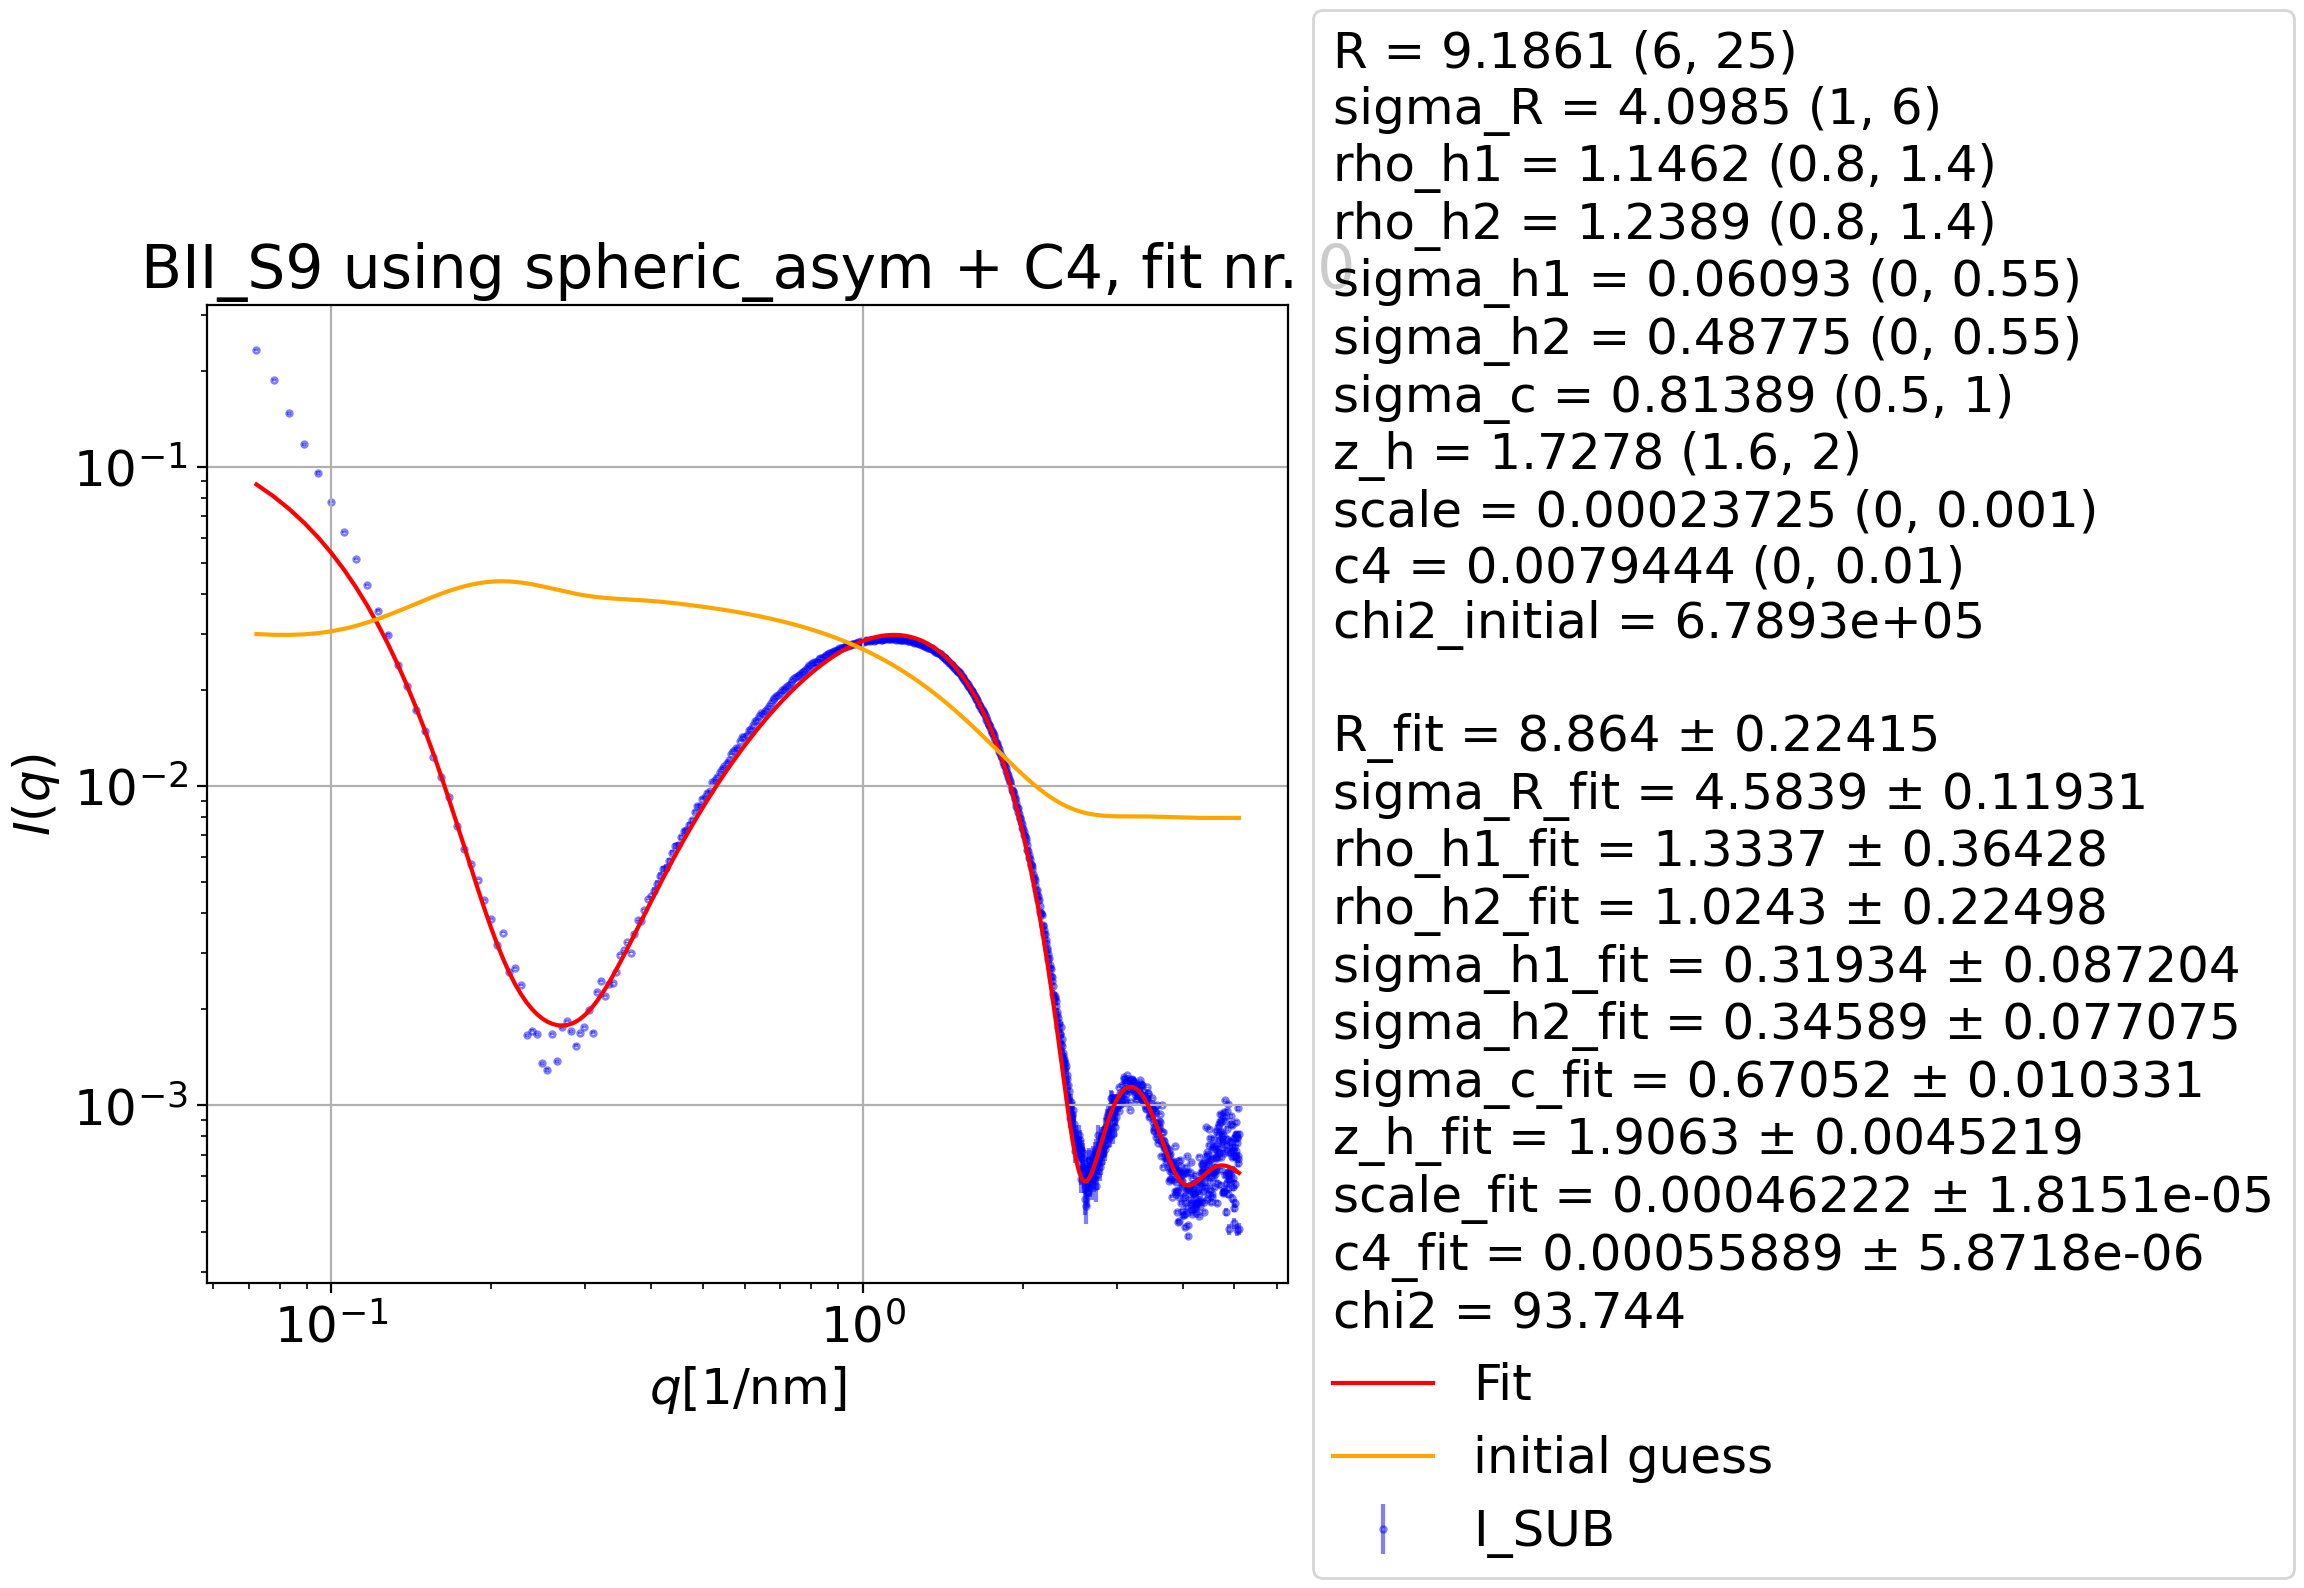
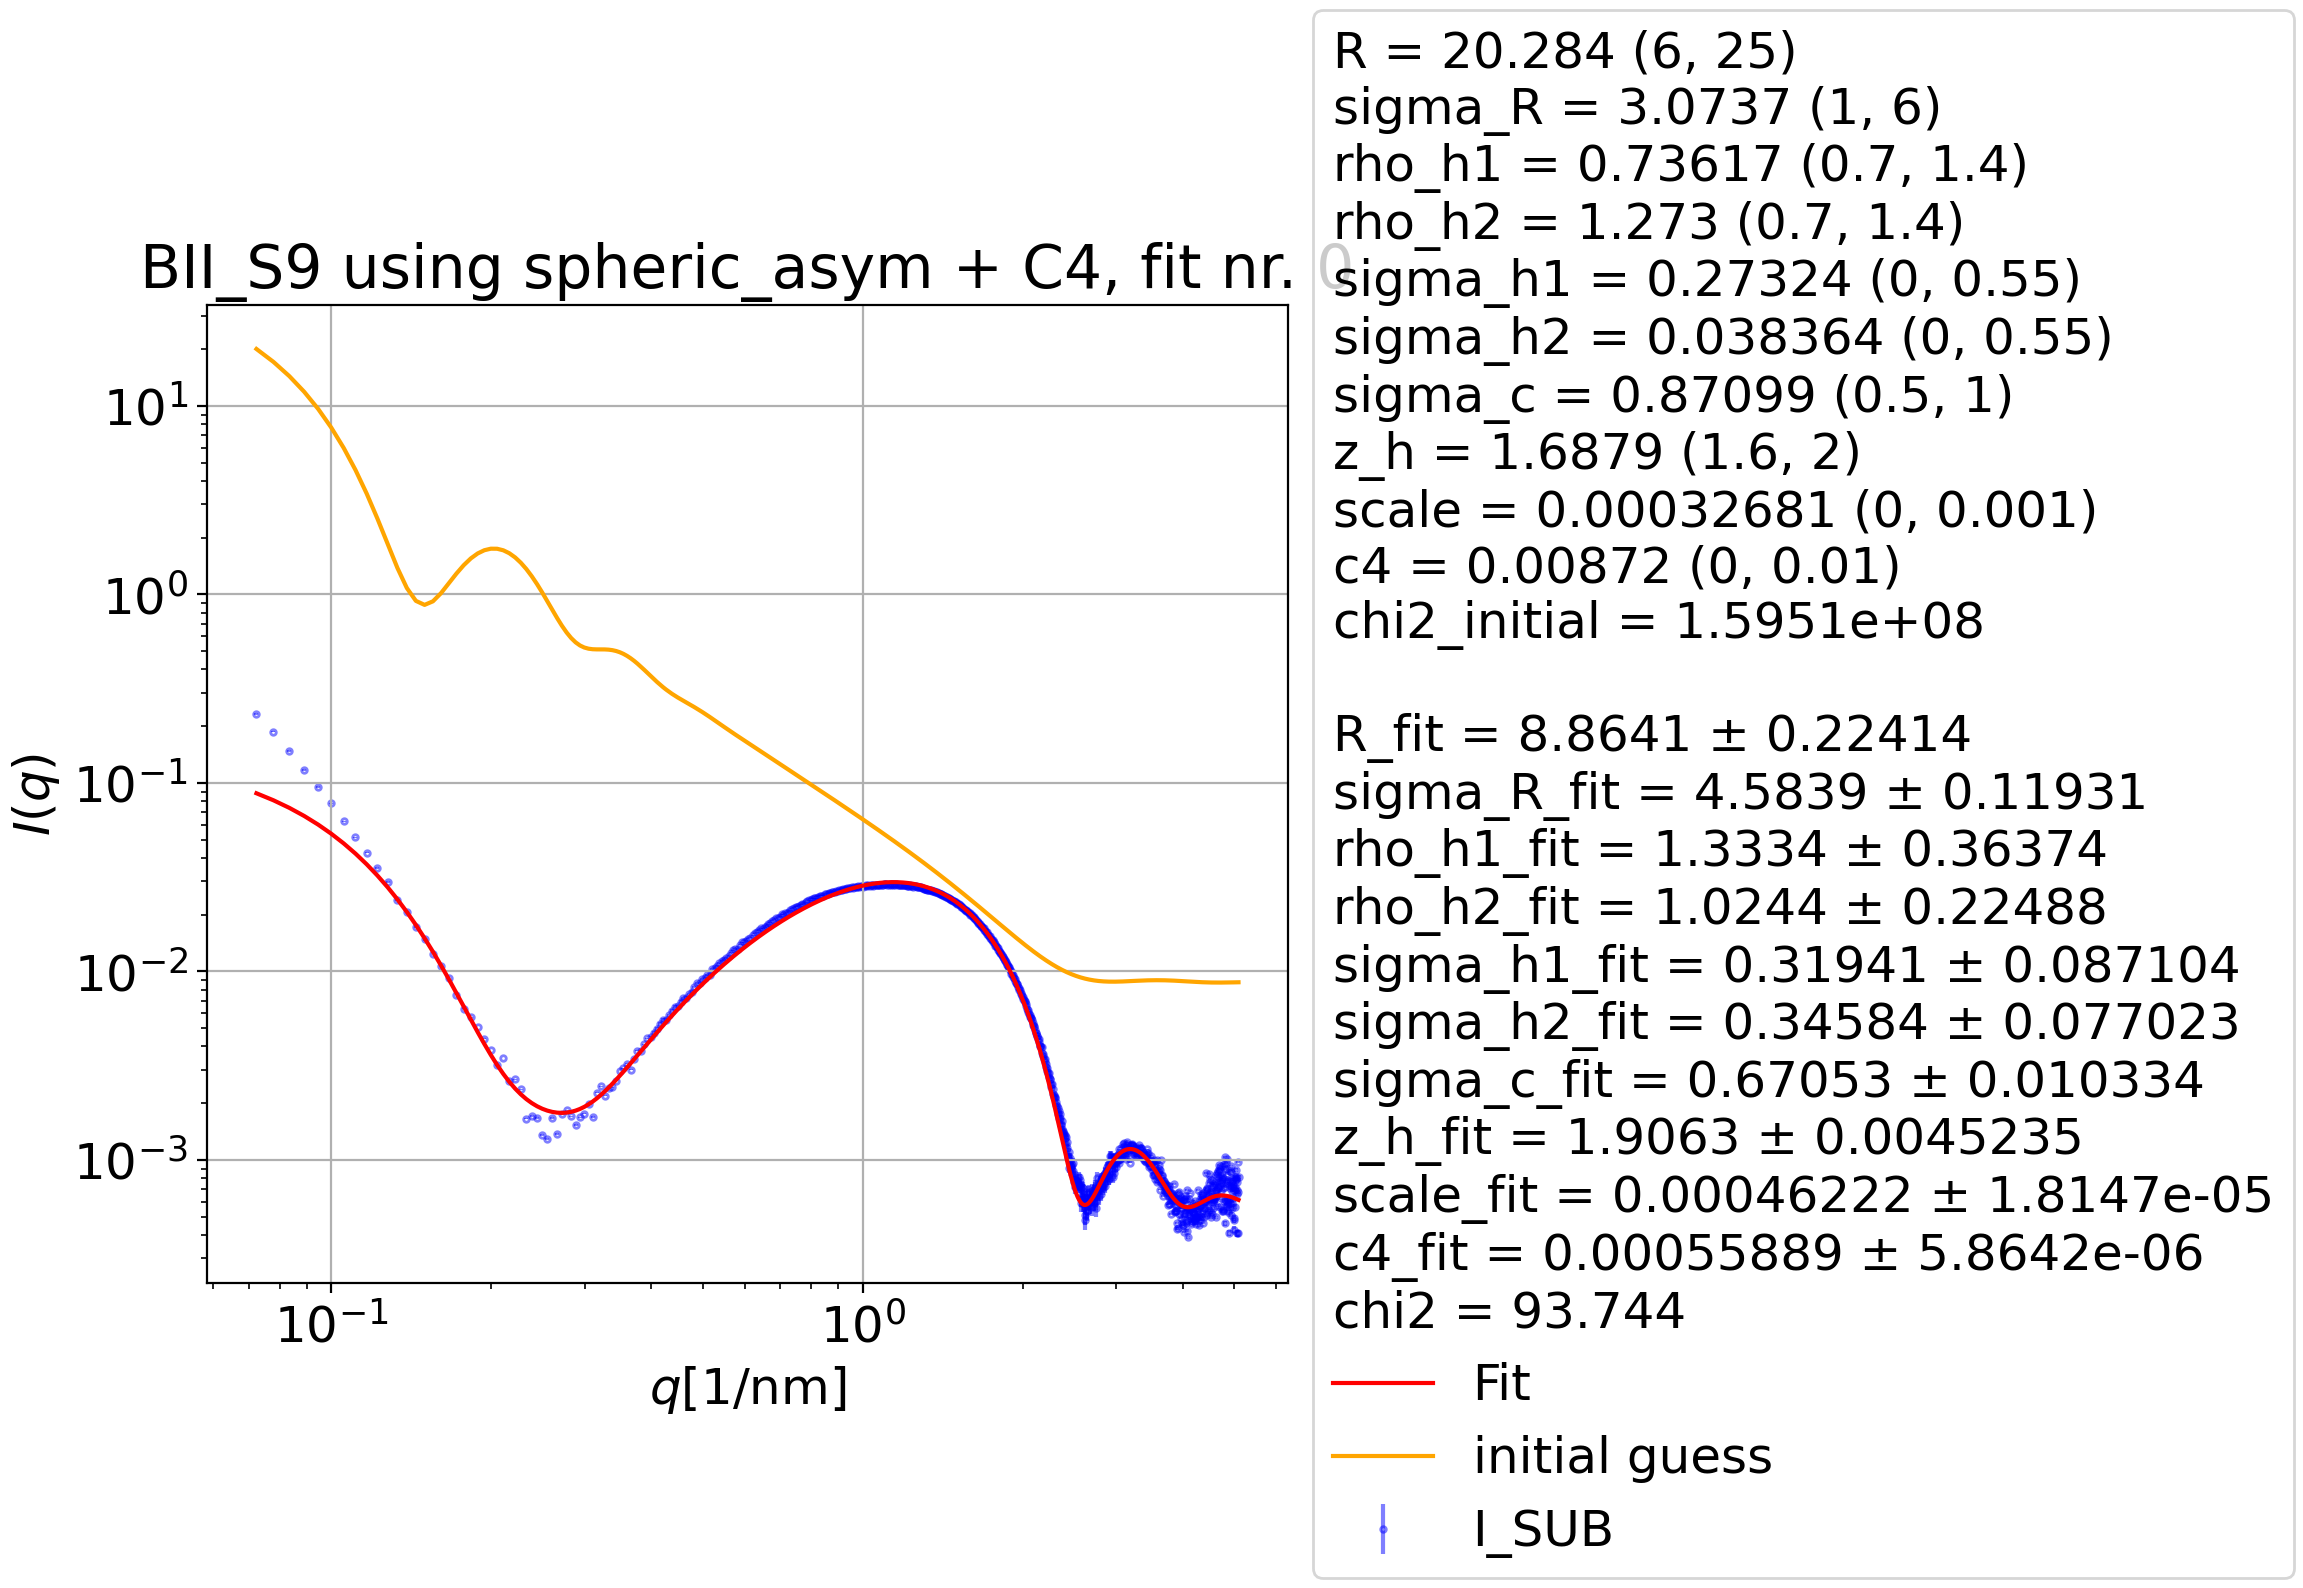
4. from PSCM Aug27

diff --git a/analysis_BM29_July2026/Fit_LV4+aSyn_variants/explore_sph_asym_ambiguity_Aug27.py b/analysis_BM29_July2026/Fit_LV4+aSyn_variants/explore_sph_asym_ambiguity_Aug27.py
@@ -73,7 +73,7 @@ for sample in who:
 
     count = 0
     chi2 = 1e6
-    chi2_threshold = BM29.get_chi2(sample, "Poisson_error_focus_minimum_highq") + 40
+    chi2_threshold = BM29.get_chi2(sample, "Poisson_error_focus_minimum_highq") + 20
     print("Current best fit has chi2 ", BM29.get_chi2(sample, "Poisson_error_focus_minimum_highq"))
     # ========================== 1. Fit with different initial guesses and limits ==========================
     i = 0
@@ -93,8 +93,8 @@ for sample in who:
                                 plt.close()
                                 # ========================== Setting Bounds ==============================
                                 # p0           = [   R,       sigma_R,   rho_h1,   rho_h2,   sigma_h1,  sigma_h2,  sigma_c,    z_h,   scale,      c4]
-                                lower_bounds = [   6,             1, r_lowlim, r_lowlim,   s_lowlim,  s_lowlim,      0.5,    1.6,       0,       0]
-                                upper_bounds = [  25, sigma_R_uplim,  r_uplim,  r_uplim,    s_uplim,   s_uplim,        1,      2,    1e-3,    1e-2]
+                                lower_bounds = [     6,             1, r_lowlim, r_lowlim,   s_lowlim,  s_lowlim,      0.5,    1.6,       0,       0]
+                                upper_bounds = [    25, sigma_R_uplim,  r_uplim,  r_uplim,    s_uplim,   s_uplim,        1,      2,    1e-3,    1e-2]
                                 p0 = np.random.uniform(lower_bounds, upper_bounds)
                                 
                                 # while count < 200:
